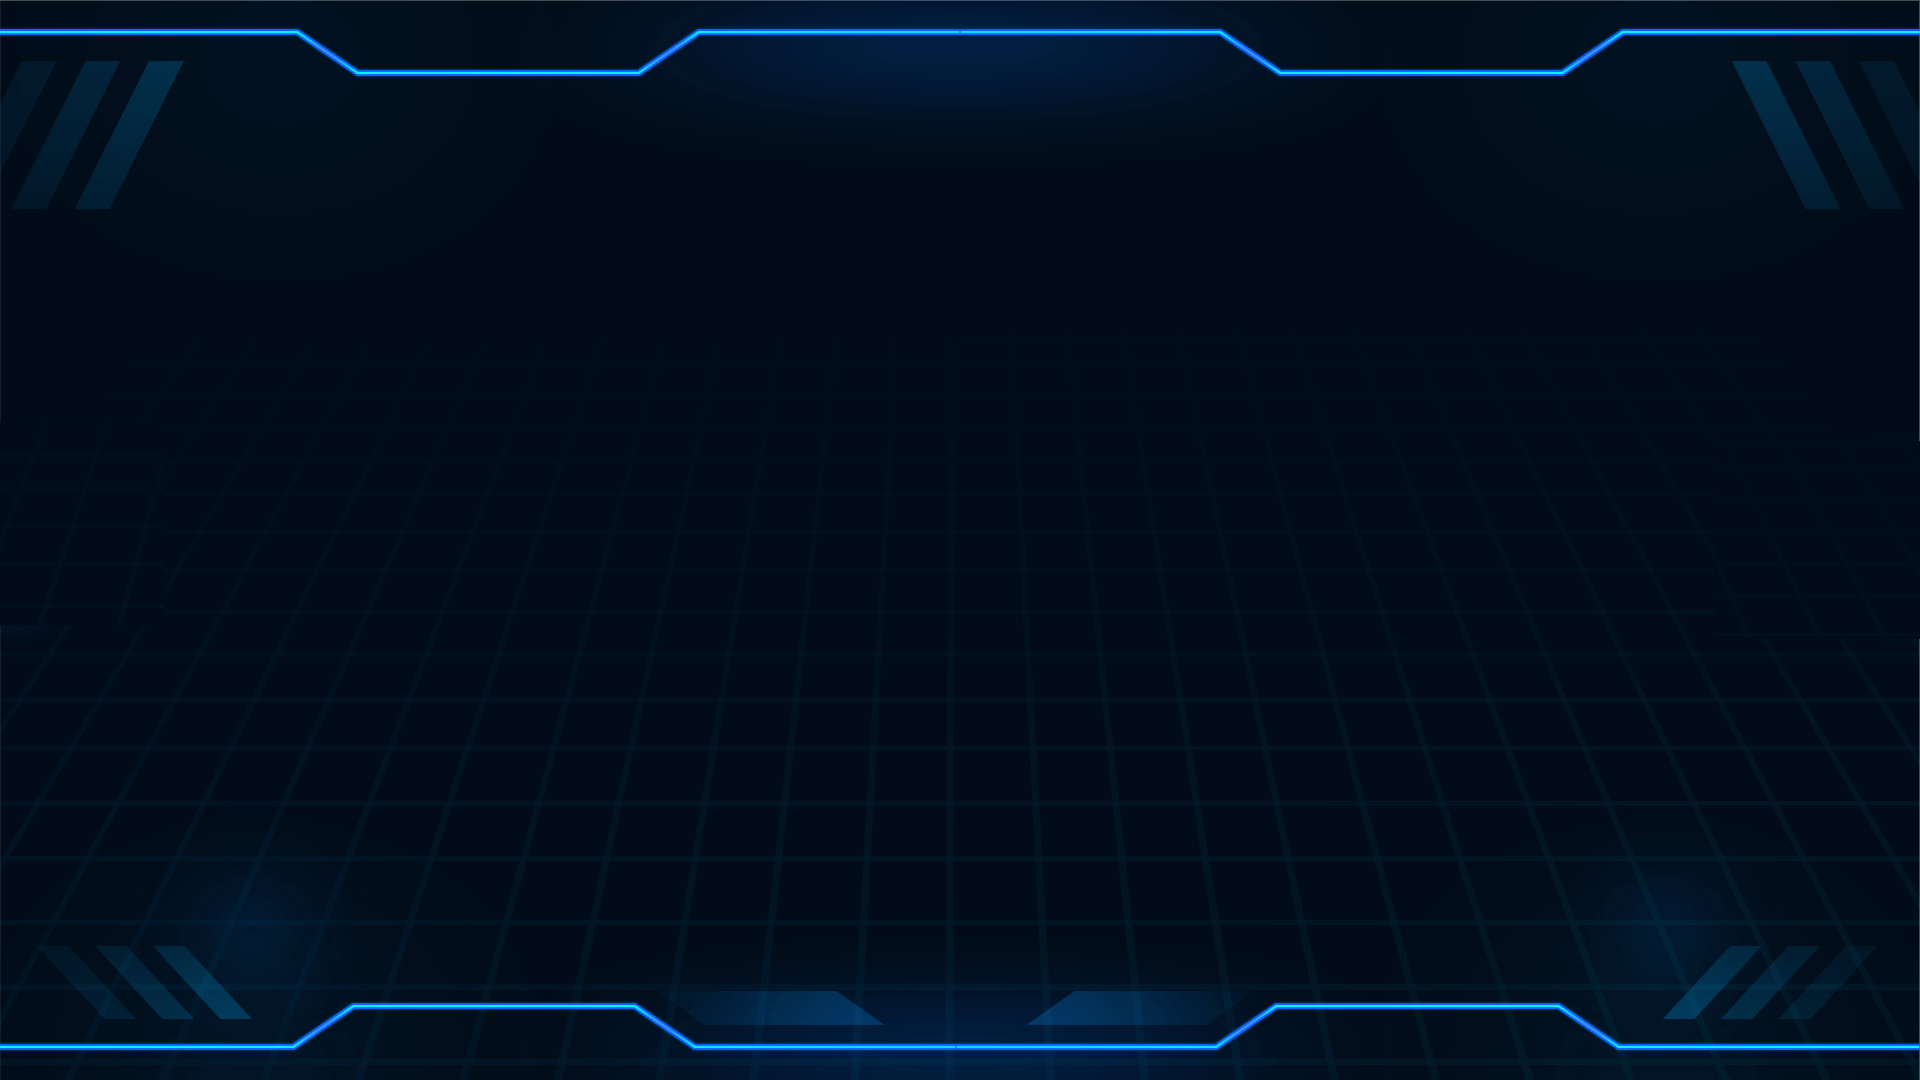
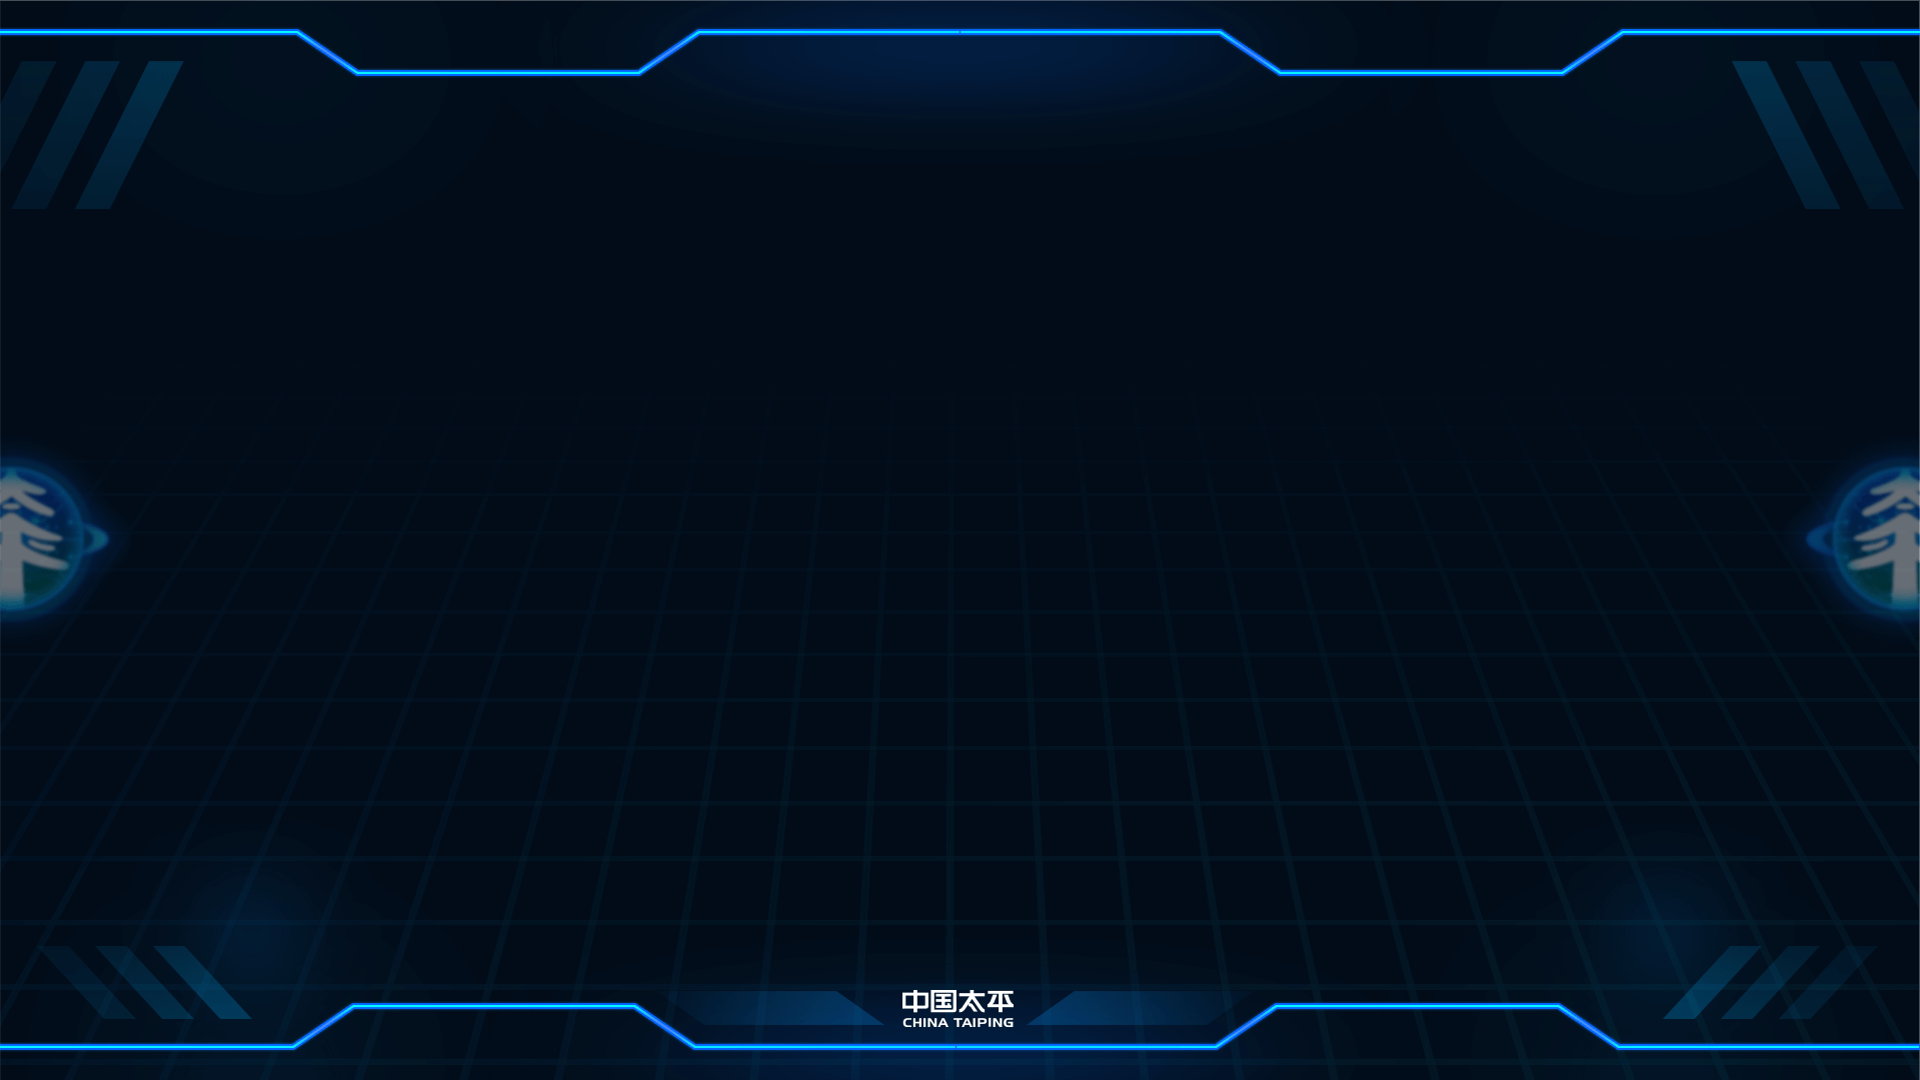
替换背景图片

Changed region(s): [[0.9375, 0.3972, 1.0, 0.5806], [0.0, 0.4278, 0.0625, 0.5806], [0.4688, 0.9167, 0.5312, 0.9472]]

diff --git a/src/components/staff_page.vue b/src/components/staff_page.vue
@@ -12,7 +12,7 @@
                                     {{u.name}}
                                 </div >
                                 <span style="font-size: 24px;" >
-                                        {{u.signTime}}-{{u.index}}
+                                    {{u.signTime}}
                                     </span >
                             </div >
                         </li >
@@ -154,7 +154,7 @@
 		    if (removeToIndex > 0) {
 			    dataList.splice(0, removeToIndex);
 		    }
-		    sleep(200)
+		    sleep(800)
 	    }
     }
 
@@ -167,10 +167,11 @@
 			    $('#img-slider').roundabout('animateToPreviousChild');
 
 		    } catch (e) {
+		        console.log("playAnimationTry: "+e);
 			    sleep(1000)
 			    playAnimationTry(++count)
 		    }
-	    }, 100);
+	    }, 500);
     }
 
     function playAnimationToNext() {
